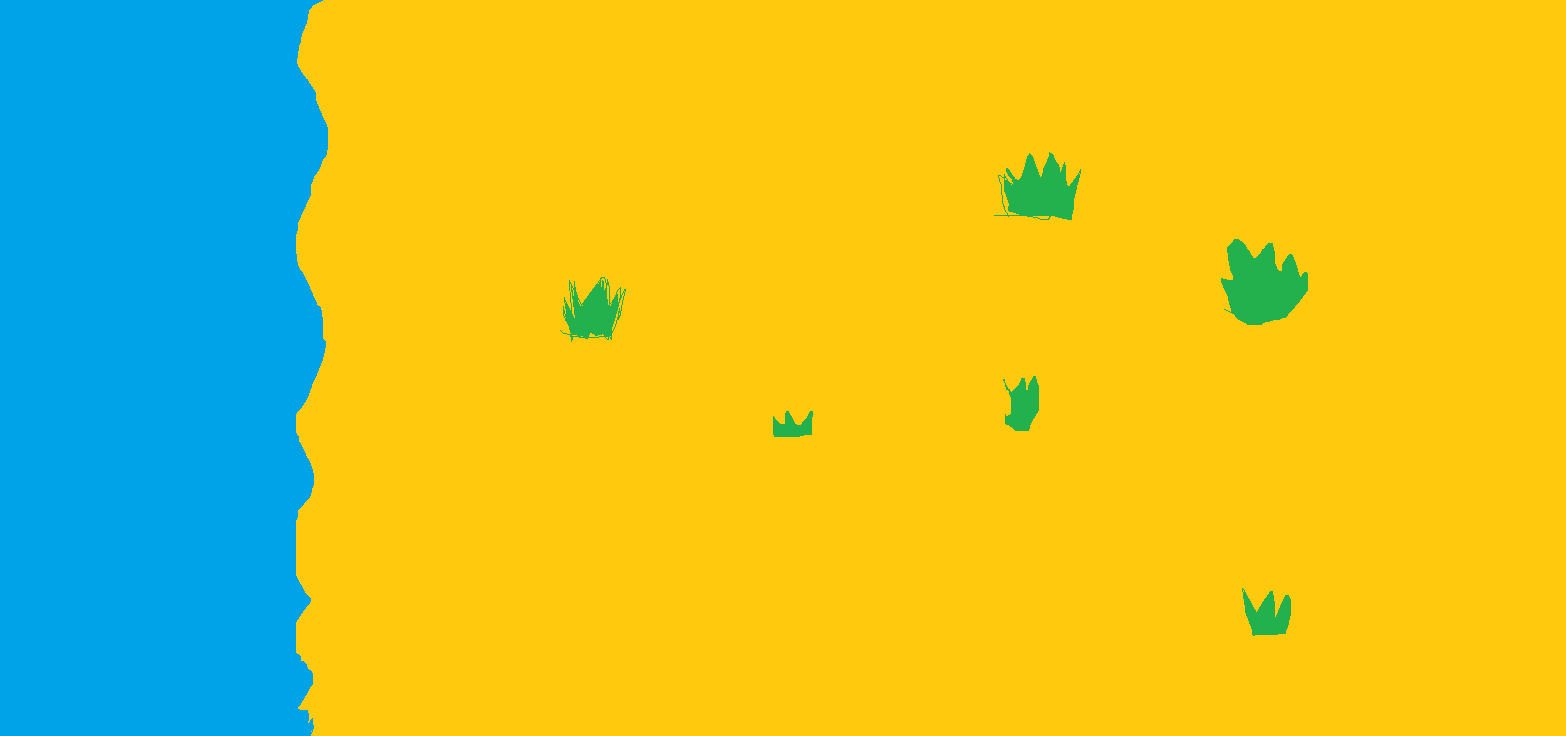
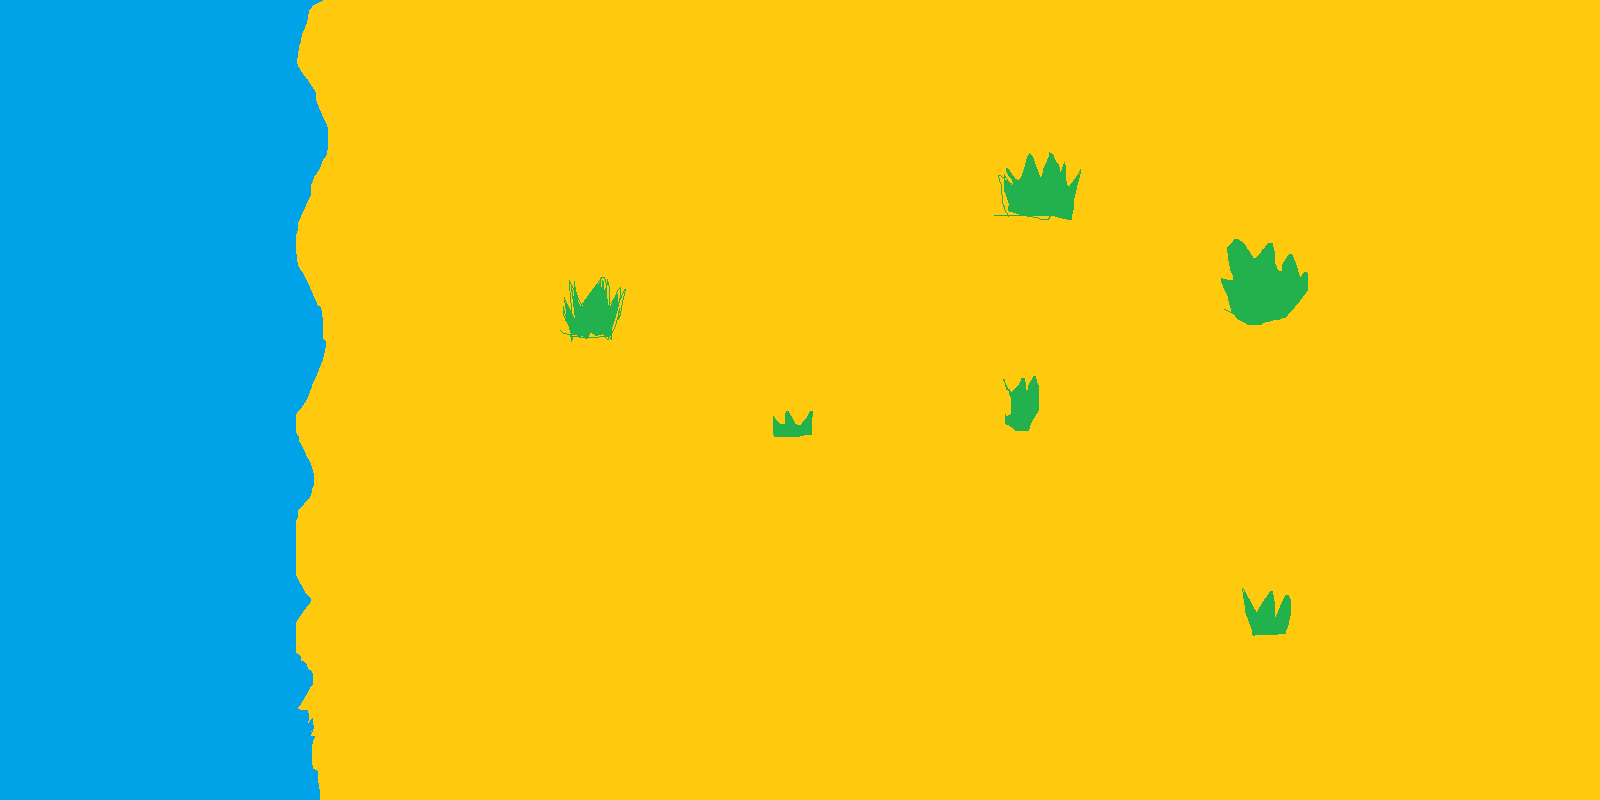
Add files via upload

diff --git a/ddps.html b/ddps.html
@@ -12,10 +12,10 @@
 <body>
     <div id="mapa" style="position: absolute; width: 100%; height: 63%; overflow: hidden;">
         <div id="fondo"
-            style="position: absolute; width: 140%; height: 170%; background-image: url('mapa.png');">
+            style="position: absolute; width: 1600px; height: 800px; background-image: url('mapa.png');">
         </div>
         <div id="personaje"
-            style="position: absolute; width: 4.5%; height: 20%; top: 45%; left: 46.5%; background-image: url('yohirostand.png');">
+            style="position: absolute; width: 50px; height: 100px; top: 45%; left: 46.5%; background-image: url('yohirostand.png');">
         </div>
     </div>
 
